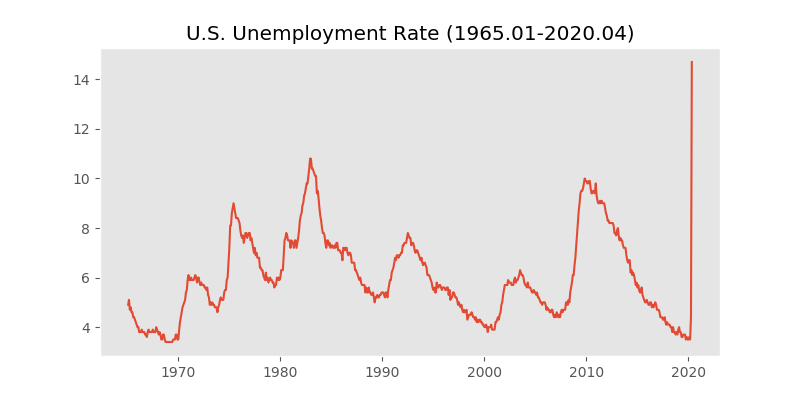
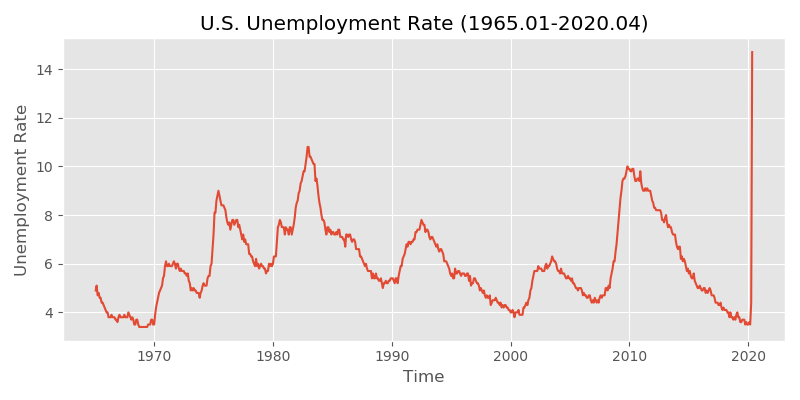
eda updated

diff --git a/src/data_eda.py b/src/data_eda.py
@@ -40,7 +40,7 @@ def heatmap_state(df, cols, legend, color='YlGn'):
     folium.LayerControl().add_to(m)
     return m
 
-def plot_default_rate(df, col, title, bins=25, cutoff=0):
+def plot_default_rate(df, col, title, ascending=True, bins=25, cutoff=0):
     """
     Plots of loan default rate by a criterion.  If a cutoff level is given, a histogram is plotted
     of the data meeting the cutoff.  Otherwise a bar plot is generated with decreasing default rates.
@@ -57,14 +57,24 @@ def plot_default_rate(df, col, title, bins=25, cutoff=0):
 
     df_grouped = df.groupby(col).agg({'LoanNr': 'count', 'Default': 'mean'})
     if cutoff==0:
-        df_plot = df_grouped.sort_values('Default', ascending=False)[0:10]
-        ax = df_plot['Default'].plot.bar(width=0.8)
-        ax.set_title(title)
+        if ascending:
+            df_plot = df_grouped.sort_values('Default', ascending=ascending)[1:11]
+            ax = df_plot['Default'].plot.bar(width=0.8)
+            ax.set_title(title)
+            ax.set_xlabel('Sector')
+            ax.set_ylabel('Default Rate')
+        else:
+            df_plot = df_grouped.sort_values('Default', ascending=ascending)[0:10]
+            ax = df_plot['Default'].plot.bar(width=0.8)
+            ax.set_title(title)
+            ax.set_xlabel('Sector')
+            ax.set_ylabel('Default Rate')
     else:
         df_plot = df_grouped[df_grouped['LoanNr']>cutoff].sort_values('Default', ascending=False)
         ax = df_plot['Default'].plot.hist(bins=bins)
         ax.set_title(title)
         ax.set_xlabel('Default Rate')
+        ax.set_ylabel('Frequency')
 
 def plot_pca_explained_var(ax, pca):
     """
@@ -95,18 +105,27 @@ if __name__ == "__main__":
     fig, ax = plt.subplots(figsize=(8,4))
     ax.plot(df_ur)
     ax.set_title("U.S. Unemployment Rate (1965.01-2020.04)")
+    ax.set_xlabel("Time")
+    ax.set_ylabel("Unemployment Rate")
+    plt.tight_layout()
     plt.savefig('images/unemployment.png')
     plt.close()
 
     df = pd.read_pickle('data/pickled_loan')
     df.drop(['grouper','Date'], axis=1, inplace=True)
 
-    df_state = df.groupby('State').mean()['Default']*100
-    columns =['State', 'Default_Rate']
-    m = heatmap_state(df_state, columns, 'Default Rate (%)', 'YlGn')
+    # df_state = df.groupby('State').mean()['Default']*100
+    # columns =['State', 'Default_Rate']
+    # m = heatmap_state(df_state, columns, 'Default Rate (%)', 'YlGn')
 
-    plot_default_rate(df, 'Sector', "Default Rate by Sector (top 10)")
-    plt.savefig('images/default_sector.png')
+    plot_default_rate(df, 'Sector', "Default Rate by Sector (top 10)", ascending=False)
+    plt.tight_layout()
+    plt.savefig('images/default_sector_top10.png')
+    plt.close()
+
+    plot_default_rate(df, 'Sector', "Default Rate by Sector (bottom 10)", ascending=True)
+    plt.savefig('images/default_sector_bottom10.png')
+    plt.tight_layout()
     plt.close()
 
     plot_default_rate(df, 'Bank', "Loan Default Rate by Bank Histogram (3000+ loans)", cutoff=3000, bins=10)
@@ -118,31 +137,31 @@ if __name__ == "__main__":
     plt.close()
 
     ### Additional feature engineering and save final data to pickle file
-    df['SBA_g'] = df['SBA_Appv']/df['GrAppv']
-    df['StateRisk'] = df['State'].map({'FL':2, 'GA':2, 'DC':2, 'NV':2, 'IL':2, 'MI':2, 'TN':2, 'AZ':2, 'NJ':2, 'SC':2,
-                                       'NY':2, 'MD':2, 'KY':2, 'NC':2, 'TX':2, 'VA':2, 'CA':2, 'LA':1, 'DE':1, 'CO':1, 
-                                       'UT':1, 'IN':1, 'AR':1, 'AL':1, 'OH':1, 'WV':1, 'MS':1, 'OK':1, 'OR':1, 'HI':1,
-                                       'MO':1, 'PA':1, 'ID':1, 'CT':1, 'WA':1, 'MA':1, 'KS':1, 'WI':1, 'MN':1, 'IA':1,
-                                       'RI':1, 'AK':1, 'NE':1, 'NM':1, 'NH':1, 'ME':0, 'SD':0, 'ND':0, 'VT':0, 'WY':0,
-                                       'MT':0})
-    df['SectorRisk'] = df['Sector'].map({53:2, 52:2, 48:2, 51:2, 61:2, 56:2, 45:2, 23:2, 49:2, 44:2, 
-                                         72:2, 71:2, 81:1, 42:1, 31:1, 54:1, 32:1, 92:1, 22:1, 33:1,
-                                         62:1, 55:1, 11:0, 21:0, 0:0})
+    # df['SBA_g'] = df['SBA_Appv']/df['GrAppv']
+    # df['StateRisk'] = df['State'].map({'FL':2, 'GA':2, 'DC':2, 'NV':2, 'IL':2, 'MI':2, 'TN':2, 'AZ':2, 'NJ':2, 'SC':2,
+    #                                    'NY':2, 'MD':2, 'KY':2, 'NC':2, 'TX':2, 'VA':2, 'CA':2, 'LA':1, 'DE':1, 'CO':1, 
+    #                                    'UT':1, 'IN':1, 'AR':1, 'AL':1, 'OH':1, 'WV':1, 'MS':1, 'OK':1, 'OR':1, 'HI':1,
+    #                                    'MO':1, 'PA':1, 'ID':1, 'CT':1, 'WA':1, 'MA':1, 'KS':1, 'WI':1, 'MN':1, 'IA':1,
+    #                                    'RI':1, 'AK':1, 'NE':1, 'NM':1, 'NH':1, 'ME':0, 'SD':0, 'ND':0, 'VT':0, 'WY':0,
+    #                                    'MT':0})
+    # df['SectorRisk'] = df['Sector'].map({53:2, 52:2, 48:2, 51:2, 61:2, 56:2, 45:2, 23:2, 49:2, 44:2, 
+    #                                      72:2, 71:2, 81:1, 42:1, 31:1, 54:1, 32:1, 92:1, 22:1, 33:1,
+    #                                      62:1, 55:1, 11:0, 21:0, 0:0})
     
-    df_loan = df[['StateRisk', 'SectorRisk', 'Term', 'NumEmp','LowDocu', 'GrAppv', 'SBA_g', 'U_rate','Default']]
+    # df_loan = df[['StateRisk', 'SectorRisk', 'Term', 'NumEmp','LowDocu', 'GrAppv', 'SBA_g', 'U_rate','Default']]
 
-    df_loan.to_pickle('data/loan_data')   
+    # df_loan.to_pickle('data/loan_data')   
 
     ### PCA analysis
-    X1 = df_loan[['StateRisk', 'SectorRisk', 'Term', 'NumEmp','GrAppv', 'SBA_g', 'U_rate']].values
-    X2 = df_loan[['LowDocu']].values
-    scaler = StandardScaler(copy=True, with_mean=True, with_std=True)
-    X1_std_ss = scaler.fit_transform(X1)
-    X = np.hstack((X1_std_ss, X2))
-    pca = PCA(n_components=8)
-    X_pca = pca.fit_transform(X)
+    # X1 = df_loan[['StateRisk', 'SectorRisk', 'Term', 'NumEmp','GrAppv', 'SBA_g', 'U_rate']].values
+    # X2 = df_loan[['LowDocu']].values
+    # scaler = StandardScaler(copy=True, with_mean=True, with_std=True)
+    # X1_std_ss = scaler.fit_transform(X1)
+    # X = np.hstack((X1_std_ss, X2))
+    # pca = PCA(n_components=8)
+    # X_pca = pca.fit_transform(X)
 
-    fig, ax = plt.subplots(figsize=(8,4))
-    plot_pca_explained_var(ax, pca)
-    plt.savefig('images/PCA_exaplained_var.png')
-    plt.close()
+    # fig, ax = plt.subplots(figsize=(8,4))
+    # plot_pca_explained_var(ax, pca)
+    # plt.savefig('images/PCA_exaplained_var.png')
+    # plt.close()

diff --git a/README.md b/README.md
@@ -22,11 +22,11 @@ The U.S. Small Business Administration (SBA) is a United States government agenc
 
 One way the SBA provides assistance to small businesses is to provide easier access to the capital market and funding.  The agency doesn't extend loans directly.  Instead, it offers a loan guarantee program that is designed to encourage banks to grant commercial loans to small businesses.  In this regard, SMA acts much like an insurance provider to mitigate the risks for banks by shouldering some of the default risks.  Because SBA only guarantees a portion of the entire loan amount, banks who grant the loan will incur some losses if a small business defaults on its SBA-guaranteed loan.  As such, banks still need to evaluate the loan application and decide if they should grant it or not. 
 
-We are in the middle of the pandemic Covid-19.  It has brought sudden and significant threats not only to human health at the risk of overcrowding the medical system but also to normal economic operations when people stay at home to "flatten the curve".  Many small businesses are suffering.  On April 21, 2020, the U.S. Senate approved a $484 billion coronavirus relief package that would provide loans to distressed small businesses.  These loans are administered by commercial banks as the "Paycheck Protection Program (PPP) loans".  In this study, I would like to build models on historical SBA guaranteed loans.  My goal is to identify the key risk factors that differentiate high-risk loans (resulting in default) from low-risk loans (with full repayments). 
+We are in the middle of the pandemic Covid-19.  It has brought sudden and significant threats not only to human health but also to normal economic operations when people stay at home to "flatten the curve".  Many small businesses are suffering.  On April 21, 2020, the U.S. Senate approved a $484 billion coronavirus relief package that would provide loans to distressed small businesses.  These loans are administered by commercial banks as the "Paycheck Protection Program (PPP) loans".  In this study, I would like to build models on historical SBA guaranteed loans data.  My goal is to identify the key risk factors that differentiate high-risk loans (resulting in default) from low-risk loans (with full repayments). 
 
 ## 2. Data <a name="data"></a>
 
-I found the dataset on kaggle.com, though it originally came from the U.S. SBA.  It contains historical data from 1968 to 2014 (899,164 observations in total).  The variable name, the data type and a brief description of each variable is found in the below table:
+I found the dataset on kaggle.com, though it originally came from the U.S. SBA.  It contains historical data from 1968 to mid-2014 (899,164 observations in total).  The variable name, the data type and a brief description of each variable is found in the below table:
 
 
 | Variable name     | Data type | Description of variable                               |
@@ -86,7 +86,7 @@ The following actions are taken to transform the data:
    | 81     | Other Services (except Public Administration)                            |
    | 92     | Public Administration                                                    |
 
-* __ApprovalFY__: In the original data set, there are 18 observations with ApprovalFY='1976A'.  I am not able to find what the 'A' indicates.  I choose to convert these values to 1976, thereby collapsing these 18 data points to be with ApprovalFY='1976'.
+* __ApprovalFY__: In the original data set, there are 18 observations with ApprovalFY='1976A'.  I am not able to find what the 'A' indicates.  I choose to convert these values to 1976, thereby collapsing the 18 data points to be with ApprovalFY='1976'.
 
 * __Franchise__: The original data set has mixed entry for this variable.  Entries '0000' and '0001' indicate there is no franchise. Franchise codes are entered wherever franchises are involved.  I choose to convert this variable to a Boolean type with 0 indicating no franchise and 1 otherwise. 
 
@@ -100,7 +100,7 @@ The following actions are taken to transform the data:
 
 * __SBA Guaranteed Portion__:  The original dataset contains the gross loan amount and the SBA guaranteed amount.  I choose to divide the latter by the former to obtain a new variable __SBA_g__ which is the percent of loan that is guanranteed by SBA.  It is a variable with values between 0 and 1.
 
-* __U.S. Unemployment Rate__:  The final variable which isn't contained in the original SBA loan dataset is the U.S. unemployment rate, a monthly data series obtained from from the U.S. [Bureau of Labor Statistics](https://data.bls.gov/timeseries/LNS14000000). It is introduced as a proxy for where the U.S. economy stands during an economic cycle.  The unemployment rate data is merged with the SBA loan data on the loan approval date.  The thought behind this is loans issued during bad economic times (with high unemployment rate) can have higher default risk and vice versa. Below is a plot of the unemployment rate during 1965.01-2020.04.  Admittedly our SBA loan data ends roughly at mid 2014.
+* __U.S. Unemployment Rate__:  The final variable which isn't contained in the original SBA loan dataset is the U.S. unemployment rate, a monthly data series obtained from from the U.S. [Bureau of Labor Statistics](https://data.bls.gov/timeseries/LNS14000000). It is introduced as a proxy for where the U.S. economy stands during an economic cycle.  The unemployment rate data is merged with the SBA loan data on the loan approval date.  The thought behind this is loans issued during bad economic times (with high unemployment rate) may have higher default risk and vice versa. Below is a plot of the unemployment rate during 1965.01-2020.04.  Admittedly our SBA loan data ends at mid-2014.
 
 ![](images/unemployment.png)
 
@@ -110,15 +110,17 @@ Which explanatory variables may be good predicators of whether a loan will go in
 
 ### 3.1. Location (State) <a name="state"></a>
 
-Location (in this case State) can be a possible indicator for potential loan risk.  The 50 states and Washington DC have different economic environments and industry concentration, therefore leading to different default rates.  As shown by the heat map below, loan default rates definitely vary across states with Florida leading the pack at around 27.4%.  This could be explained by Florida suffering more from the boom and bust of real estate cycles, as well as more natural disaters like hurricanes.  In contrast, western states like Montana and Wyoming have lower loan default rates (in the 6% range).  This could be because these states traditionally relies on the oil and mineral industries which were more or less stable during the sample periods.     
+Location (in this case State) can be a possible indicator for potential loan risk.  The 50 states and Washington DC have different economic environments and industry concentration, therefore leading to different default rates.  As shown by the heat map below, loan default rates definitely vary across states with Florida leading the pack at around 27.4%.  This could be explained by Florida suffering more from the boom and bust of real estate cycles, as well as more natural disaters like hurricanes.  In contrast, western states like Montana and Wyoming have lower loan default rates (in the 6% range).  This could be explained by the fact that these states traditionally relies on the oil and mineral industries which were more or less stable during the sample periods.     
 
 ![](images/default_state.png)
 
 ### 3.2. Sector <a name="sector"></a>
 
-The below bar charts shows the top 10 highest loan default sectors.  Cross-referencing the sector NAICS table above, we can see that __sector 53__ is "Real estate and rental and leasing".  Real estate secotor is pro-cyclical and tends to overshoot in both economic booms and busts.  Since 1980, the United States has experienced at least two big real-estate led economic cycles, the most recent being the 2008-2009 financial crisis.  On the other of the spectrum, __sector 11__ (Agriculture, forestry, fishing and hunting), __sector 21__ (Mining, quarring, and oil and gas extraction), __sector 55__ (Management), and __sector 62__ (Health care and social assistance) suffer from lower loan default risks (in the 10% range) either because the sector is acyclical or hasn't experienced significant downward price adjustments.  (The same cannot be said about oil and gas industry in the Covid-19 Crisis, though the cause is not the virus alone.) 
+The below bar charts lists the top 10 highest loan default sectors.  Cross-referencing the sector NAICS table above, we can see that __sector 53__ is "Real estate and rental and leasing".  Real estate secotor is pro-cyclical and tends to overshoot in both economic booms and busts.  Since 1980, the United States has experienced at least two big real-estate led economic cycles, the most recent being the 2008-2009 financial crisis.  On the other side of the spectrum, __sector 11__ (Agriculture, forestry, fishing and hunting), __sector 21__ (Mining, quarring, and oil and gas extraction), __sector 55__ (Management), and __sector 62__ (Health care and social assistance) suffer from lower loan default risks (in the 10% range) either because the sector is acyclical or hasn't experienced significant downward price adjustments.  (The same cannot be said about oil and gas industry in the Covid-19 Crisis, though the cause is not the virus alone.) 
 
-![](images/default_sector.png)
+![](images/default_sector_top10.png)
+
+![](images/default_sector_bottom10.png)
 
 ### 3.3. Bank (Lender) <a name="bank"></a>
 
